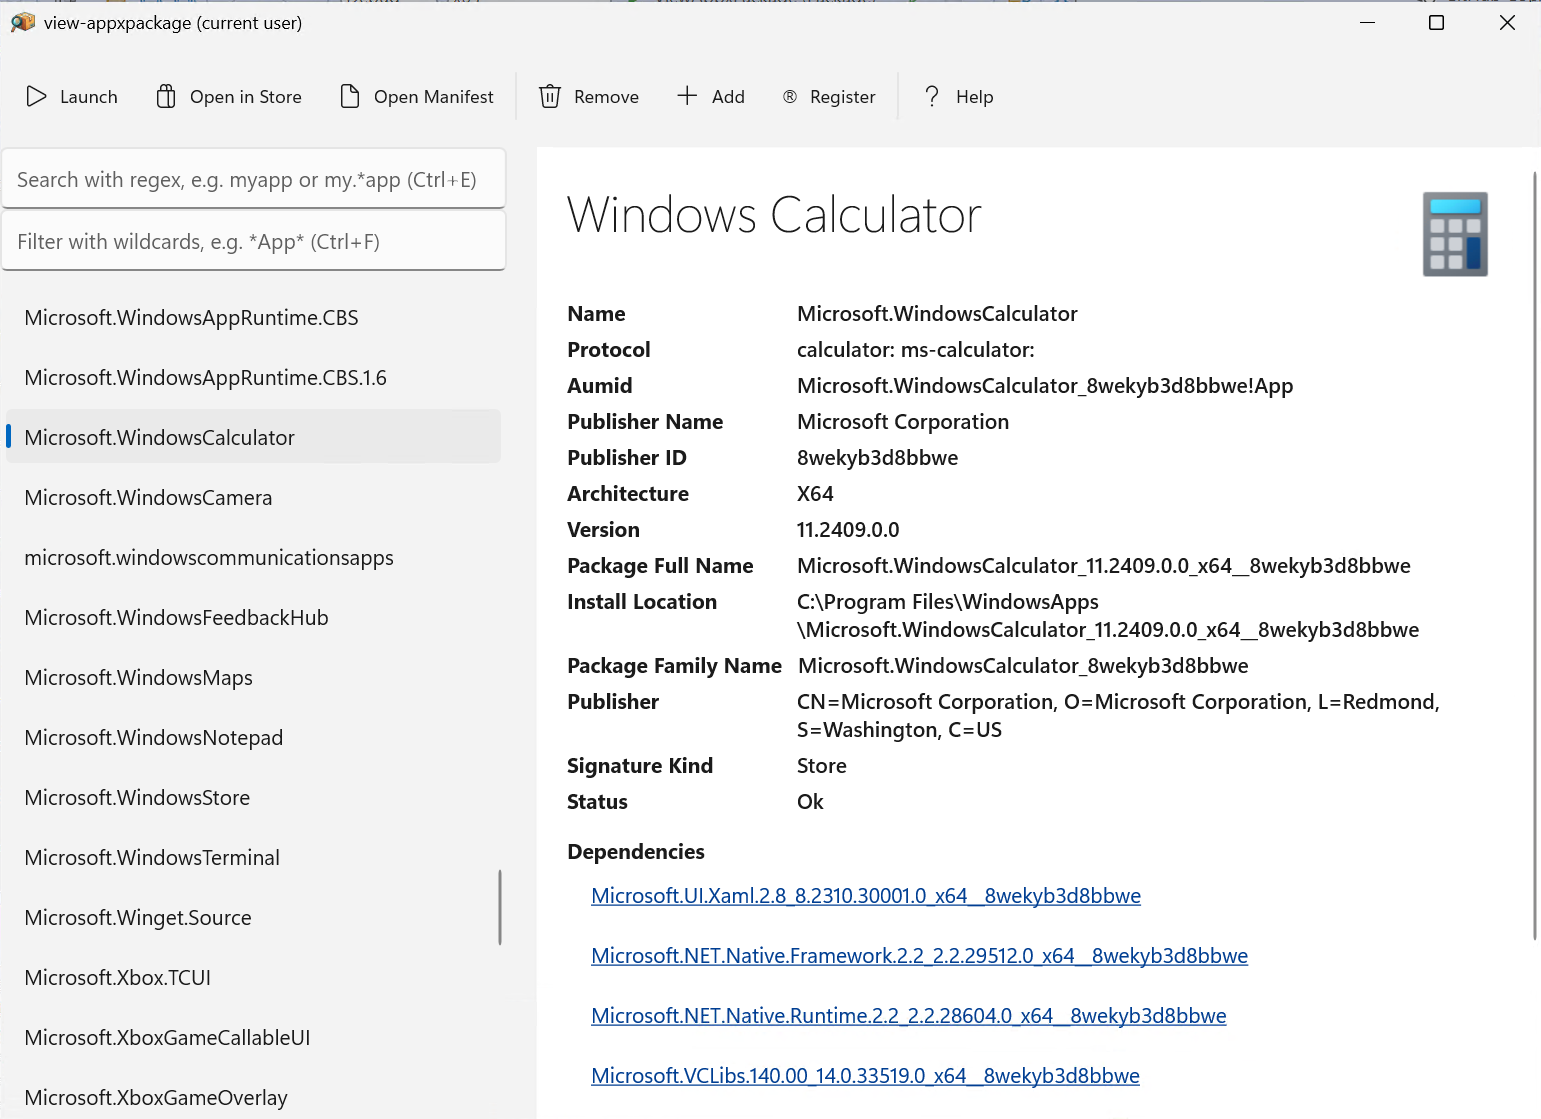
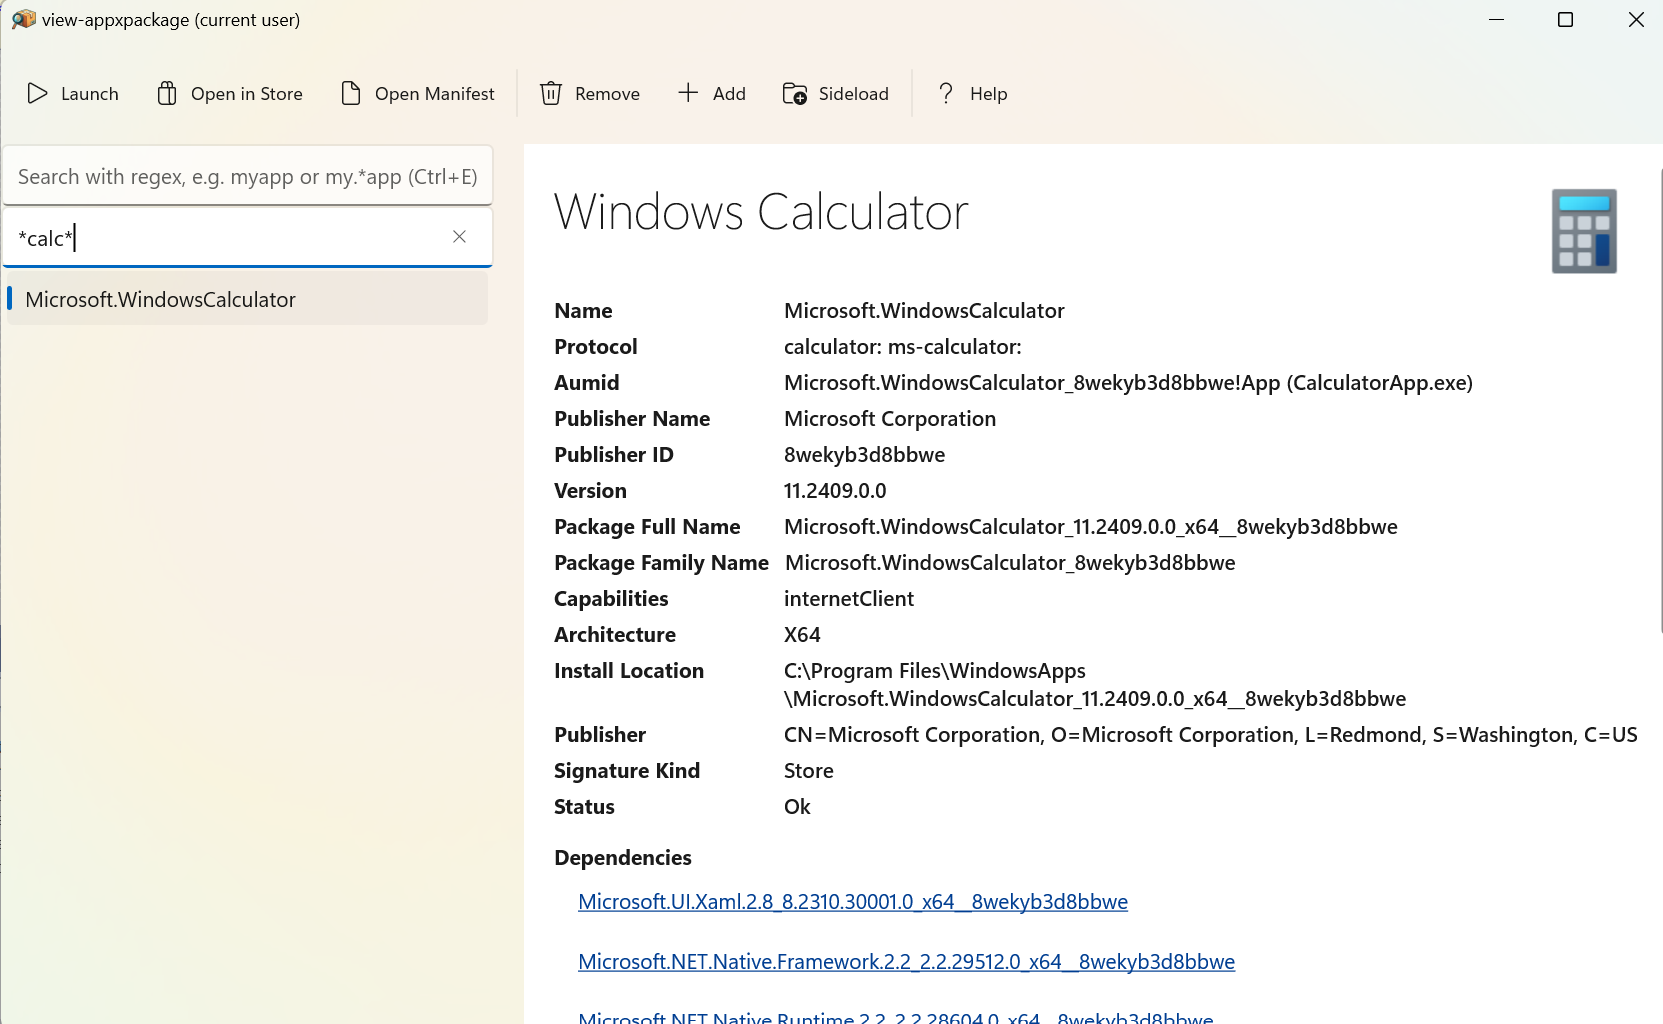
Debug log, launch bug

diff --git a/src/MainWindow.xaml b/src/MainWindow.xaml
@@ -16,6 +16,7 @@
                 <!-- bugbug: override this on the CommandBar? -->
                 <KeyboardAccelerator Modifiers="Control" Key="F" Invoked="GoToFilter"/>
                 <KeyboardAccelerator Modifiers="Control" Key="E" Invoked="GoToSearch"/>
+                <KeyboardAccelerator Modifiers="Control,Shift" Key="G" Invoked="ShowDebugLog" />
             </Grid.KeyboardAccelerators>
 
             <!-- Two columns for the list and the detail -->
@@ -50,15 +51,11 @@
                     <AppBarButton Click="AddPackage" Icon="Add" Label="Add"
                                   ToolTipService.ToolTip="Add a package (must be signed with a trusted certificate)"/>
 
-                    <AppBarButton Click="RegisterPackage" Label="Register">
-                        <AppBarButton.Icon>
-                            <!-- Registered trademark symbol is the best icon I can think of so far for "register" -->
-                            <FontIcon FontFamily="Segoe UI Symbol" Glyph="&#x00AE;" />
-                        </AppBarButton.Icon>
+                    <AppBarButton Click="RegisterPackage" Label="Sideload" Icon="NewFolder">
                         <ToolTipService.ToolTip>
                             <local:ComplexToolTip
-                                Title="Register unsigned package"
-                                Subtitle="Add a package that's unsigned, and either an appx/msix or just a directory. Requires that Developer Mode be enabled" />
+                                Title="Developer sideload"
+                                Subtitle="Add a package that's unsigned, and either an appx/msix or an AppxManifest.xml file in a deployment directory. Requires that Developer Mode be enabled" />
                         </ToolTipService.ToolTip>
                     </AppBarButton>
 

diff --git a/src/DebugLogViewer.xaml b/src/DebugLogViewer.xaml
@@ -1,0 +1,16 @@
+<?xml version="1.0" encoding="utf-8"?>
+<UserControl
+    x:Class="ViewAppxPackage.DebugLogViewer"
+    xmlns="http://schemas.microsoft.com/winfx/2006/xaml/presentation"
+    xmlns:x="http://schemas.microsoft.com/winfx/2006/xaml"
+    xmlns:local="using:ViewAppxPackage"
+    xmlns:d="http://schemas.microsoft.com/expression/blend/2008"
+    xmlns:mc="http://schemas.openxmlformats.org/markup-compatibility/2006"
+    mc:Ignorable="d">
+
+    <ScrollViewer Padding="10">
+        <TextBlock Text="{x:Bind Text}"
+                   IsTextSelectionEnabled="True"/>
+    </ScrollViewer>
+
+</UserControl>

diff --git a/src/PackageView.xaml b/src/PackageView.xaml
@@ -19,6 +19,7 @@
                 <TextBlock Text="{x:Bind Package.DisplayName}"
                            Style="{StaticResource SubheaderTextBlockStyle}"
                            TextWrapping="Wrap"
+                           IsTextSelectionEnabled="True"
                            Margin="0,0,0,10" />
 
                 <Image Grid.Column="1" 

diff --git a/src/MainWindow.xaml.cs b/src/MainWindow.xaml.cs
@@ -200,6 +200,8 @@ namespace ViewAppxPackage
                 {
                     _currentItem = null;
 
+                    DebugLog.Append("CurrentItem is null");
+
                     // Ignore the two-way binding where a resource package is selected,
                     // so the SelectedItem goes to null
                     return;
@@ -207,6 +209,8 @@ namespace ViewAppxPackage
 
                 if (_currentItem != value)
                 {
+                    DebugLog.Append($"CurrentItem is {value.Id.Name}");
+
                     _currentItem = value;
                     RaisePropertyChanged();
                 }
@@ -243,7 +247,7 @@ namespace ViewAppxPackage
                 return;
             }
 
-            Debug.WriteLine($"Catalog update: {updateKind}, {wamPackage.Id.Name}, {wamPackage.InstalledPath}");
+            DebugLog.Append($"Catalog update: {updateKind}, {wamPackage.Id.Name}, {wamPackage.InstalledPath}");
 
             if (Packages == null)
             {
@@ -300,8 +304,16 @@ namespace ViewAppxPackage
 
         void RemoveFromCache(PackageModel package)
         {
-
-            _originalpackages.Remove(package);
+            var existing = _originalpackages.FirstOrDefault(p => p.Id.FullName == package.Id.FullName);
+            if(existing != null)
+            {
+                _originalpackages.Remove(existing);
+                DebugLog.Append($"Removed {package.Id.Name} from cache");
+            }
+            else
+            {
+                DebugLog.Append($"Didn't remove {package.Id.Name} from cache");
+            }
 
             PackageModel.ClearCache(package);
         }
@@ -728,7 +740,7 @@ namespace ViewAppxPackage
             }
 
             // bugbug: handle the case of a package with multiple Applications (multiple Aumids)
-            var firstAumid = package.Aumids.Split(',').FirstOrDefault().Trim();
+            var firstAumid = package.Aumids.Split(' ').FirstOrDefault().Trim();
 
             ProcessStartInfo si = new();
             si.FileName = $@"shell:AppsFolder\{firstAumid}";
@@ -976,6 +988,12 @@ namespace ViewAppxPackage
         {
             ShowHelp();
         }
-    }
 
+        private void ShowDebugLog(KeyboardAccelerator sender, KeyboardAcceleratorInvokedEventArgs args)
+        {
+            args.Handled = true;
+            DebugLogViewer.Show();
+        }
+    }
+    
 }

diff --git a/src/PackageModel.cs b/src/PackageModel.cs
@@ -242,6 +242,9 @@ namespace ViewAppxPackage
 
                         // If the package status isn't OK, there's a bool on PackageStatus to say what the problem is
                         // Search for the one that's true and return its name
+                        // bugbug: Sometimes VerifyIsOK() returns false, but none of the bools are set
+                        // (saw this when testing a packaged app that called AddPackageByUriAsync on itself with
+                        // DeferRegistrationWhenPackagesAreInUse set to install an update)
 
                         _status = "Not Ok";
                         foreach (var property in _statusProperties)
@@ -444,6 +447,7 @@ namespace ViewAppxPackage
             _appExecutionAlias = "";
             _capabilities = "";
             _fileTypeAssociations = "";
+            _aumids = "";
 
             try
             {
@@ -524,7 +528,9 @@ namespace ViewAppxPackage
                         }
                         else
                         {
-                            sb.AppendLine();
+                            // bugbug: add a space here to make it easier for LaunchPackage to pull out the first aumid
+                            // (See the bugbug there about how it shouldn't be pulling out just the first aumid)
+                            sb.AppendLine(" ");
                         }
 
                         sb.Append($"{FamilyName}!{attribute.Value}");

diff --git a/src/DebugLog.cs b/src/DebugLog.cs
@@ -1,0 +1,64 @@
+using System;
+using System.Collections.Generic;
+using System.Diagnostics;
+using System.Linq;
+using System.Text;
+using System.Threading.Tasks;
+
+namespace ViewAppxPackage
+{
+    public static class DebugLog
+    {
+        static List<string> _log = new List<string>();
+
+        public static void Start(string message)
+        {
+            lock (_log)
+            {
+                // Sanity check for robustness
+                if (_log.Count > 50000)
+                    _log.Clear();
+
+                _log.Add("\r\n" + Thread + message);
+            }
+        }
+
+        public static void Append(string message)
+        {
+            lock (_log)
+            {
+                Debug.WriteLine(message);
+                _log.Add(Thread + message);
+            }
+        }
+
+        public static void Append(Exception e)
+        {
+            Append(e.Message);
+            if (e.StackTrace != null)
+            {
+                Append(e.StackTrace);
+            }
+        }
+
+        static string Thread
+        {
+            get
+            {
+                return ""; // No Thread available in portable library
+            }
+        }
+
+
+
+        public static string GetLog()
+        {
+            var sb = new StringBuilder();
+            foreach (var line in _log)
+                sb.AppendLine(line);
+
+            return sb.ToString();
+        }
+
+    }
+}

diff --git a/src/DebugLogViewer.xaml.cs b/src/DebugLogViewer.xaml.cs
@@ -1,0 +1,40 @@
+using Microsoft.UI.Xaml;
+using Microsoft.UI.Xaml.Controls;
+using Microsoft.UI.Xaml.Controls.Primitives;
+using Microsoft.UI.Xaml.Data;
+using Microsoft.UI.Xaml.Input;
+using Microsoft.UI.Xaml.Media;
+using Microsoft.UI.Xaml.Navigation;
+using System;
+using System.Collections.Generic;
+using System.IO;
+using System.Linq;
+using System.Runtime.InteropServices.WindowsRuntime;
+using Windows.Foundation;
+using Windows.Foundation.Collections;
+
+// To learn more about WinUI, the WinUI project structure,
+// and more about our project templates, see: http://aka.ms/winui-project-info.
+
+namespace ViewAppxPackage
+{
+    public sealed partial class DebugLogViewer : UserControl
+    {
+        public DebugLogViewer()
+        {
+            this.InitializeComponent();
+
+            Text = DebugLog.GetLog();
+        }
+
+        string Text { get; set; }
+
+        static public void Show()
+        {
+            var window = new Window();
+            var viewer = new DebugLogViewer();
+            window.Content = viewer;
+            window.Activate();
+        }
+    }
+}

diff --git a/README.md b/README.md
@@ -3,12 +3,23 @@ view-appxpackage
 
 Use this app to view and manage MSIX packages on this device
 
-Sample screen:
+[Full help info](./Package/Assets/Help.md)
+
+# Install
+
+[Microsoft Store](https://www.microsoft.com/store/productId/9MZ8SSBDQG3F?ocid=pdpshare)
+
+_or_
+
+`winget install view-appxpackage --source msstore`
+
+
+# Sample screen
 
 ![Sample](./src/Screenshots/1.png)
 
 
-Command line examples:
+# Command line examples
 
 ```
 view-appxpackage
@@ -16,4 +27,3 @@ view-appxpackage *calculator*
 get-appxpackage | ? {$_.IsDevelopmentMode} | view-appxpackage
 ```
 
-[Full help info](./Package/Assets/Help.md)

diff --git a/Package/Assets/Help.md b/Package/Assets/Help.md
@@ -36,6 +36,6 @@ get-appxpackage | ? {$_.IsDevelopmentMode} | view-appxpackage
 * **Open** a package's AppxManifest
 * **Remove** a package
 * **Add** a package
-* **Register** a package (can be used to add **unsigned** packages)
+* **Sideload** a package (requires Developer Mode, can be used to add **unsigned** packages)
 * **Open in Store** to go to the Store page
 
